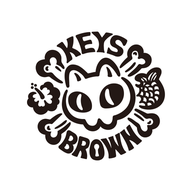
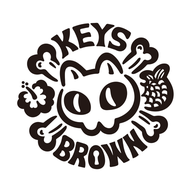
로고를 SVG로 교체 (시작 화면·아이콘 선명하게)
Claude-Session: https://claude.ai/code/session_01WLcLmmDnWYQ6rJxnwf8mD7

Changed region(s): [[0.0625, 0.0938, 0.9062, 0.9062]]

diff --git a/sw.js b/sw.js
@@ -1,4 +1,4 @@
-const C='ttd-v11';
-self.addEventListener('install',e=>{e.waitUntil(caches.open(C).then(c=>c.addAll(['./','./index.html','./manifest.webmanifest','./icon-192.png','./logo.png','./splash.png'])));self.skipWaiting();});
+const C='ttd-v12';
+self.addEventListener('install',e=>{e.waitUntil(caches.open(C).then(c=>c.addAll(['./','./index.html','./manifest.webmanifest','./icon-192.png','./logo.svg'])));self.skipWaiting();});
 self.addEventListener('activate',e=>e.waitUntil(self.clients.claim()));
 self.addEventListener('fetch',e=>{const u=new URL(e.request.url);if(u.origin!==location.origin)return;e.respondWith(fetch(e.request,{cache:'no-cache'}).then(r=>{const cp=r.clone();caches.open(C).then(c=>c.put(e.request,cp));return r;}).catch(()=>caches.match(e.request)));});

diff --git a/index.html b/index.html
@@ -138,7 +138,7 @@ body:not(.ready) .needs{display:none}
 </style>
 </head>
 <body>
-<div id="splash" aria-hidden="true"><img src="splash.png" alt=""><div class="dots"><i></i><i></i><i></i></div></div>
+<div id="splash" aria-hidden="true"><img src="logo.svg" alt=""><div class="dots"><i></i><i></i><i></i></div></div>
 <div class="wrap">
   <div class="top">
     <div class="logo">Keysbrown</div>
